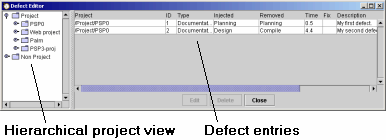
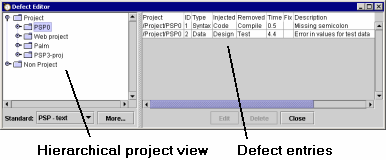
Update help for custom defect types
git-svn-id: https://svn.code.sf.net/p/processdash/code/trunk@1671 560cad82-bde2-470f-af40-e4e1f8d6548a

diff --git a/pspdash/Templates/help/Topics/Execution/UsingDefectLogEditor.html b/pspdash/Templates/help/Topics/Execution/UsingDefectLogEditor.html
@@ -24,6 +24,29 @@ dialog box used to enter defects.  All the defect data can be changed using
 this dialog.  For help using the defect entry dialog please see the <a 
 href="EnteringDefects.html">Entering defects</A> help topic.</P>
 
+<h2>Configuring Defect Type Standards</h2>
+
+<p>The dashboard will allow you to configure the &quot;defect type
+standards&quot; that you would like to use for various projects.
+
+<P>Defect type standards are associated with projects hierarchically.
+By default, projects just inherit the standard chosen by their parent.
+In addition, there is a &quot;global default&quot; defect type
+standard that is inherited when no other settings have been chosen.
+
+<P>As you select various branches in the project hierarchy, a
+component at the bottom of the left pane will show you the defect type
+standard setting in effect for the highlighted branch.  You can select
+a different defect type standard from the drop-down list provided.
+The new value you select will become the default defect type standard
+for the highlighted branch of your project hierarchy.
+
+<p>Click on the &quot;More...&quot; button at the bottom of the left pane to: 
+<ul>
+<li>Edit an existing defect type standard
+<li>Create a new defect type standard
+<li>Change the global default defect type standard
+</ul>
 
 <!-- DISCLAIMER -->
 
